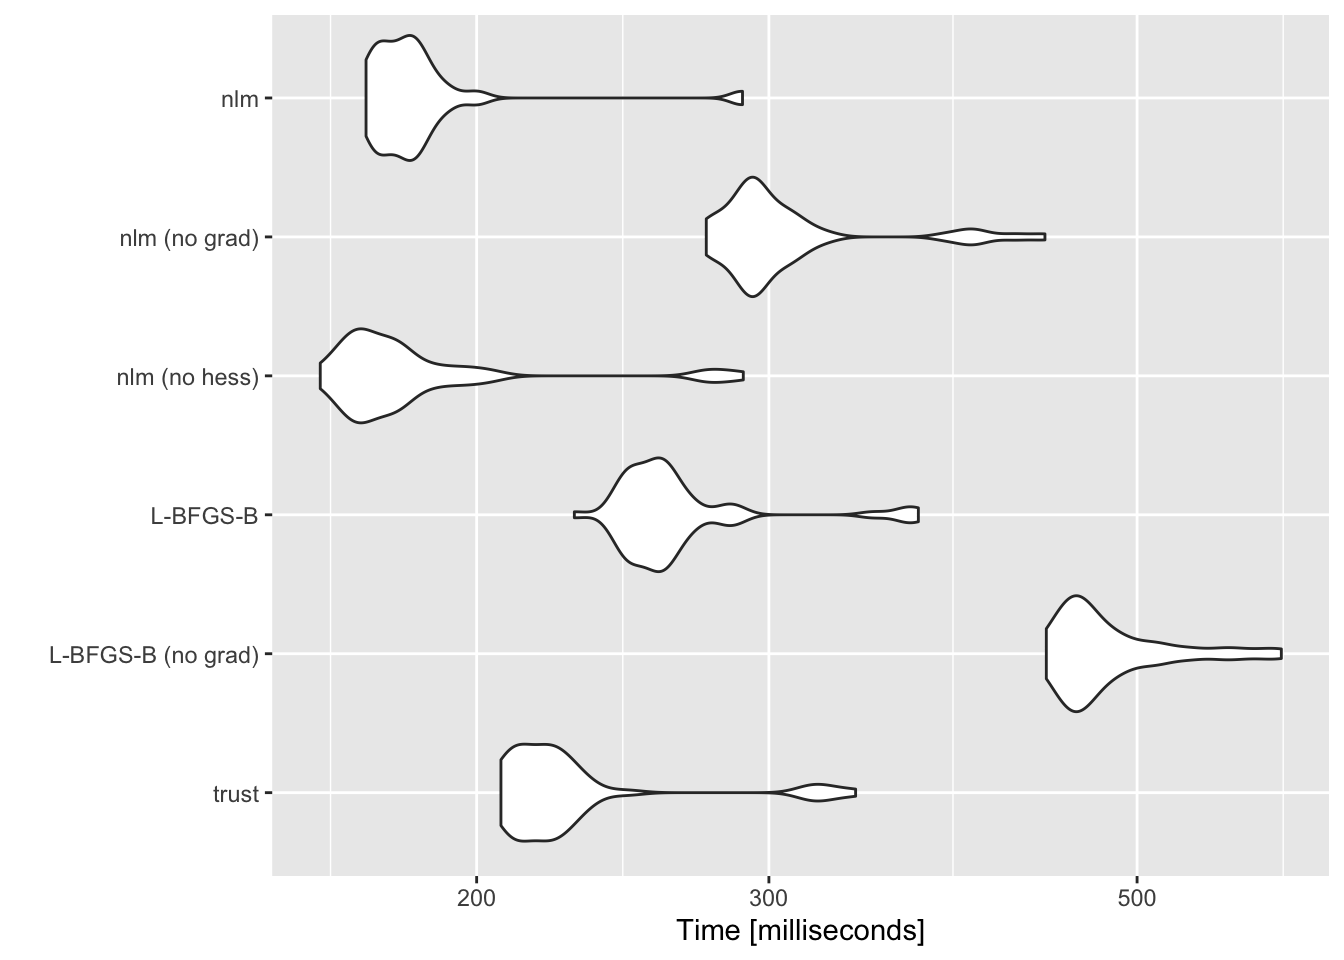
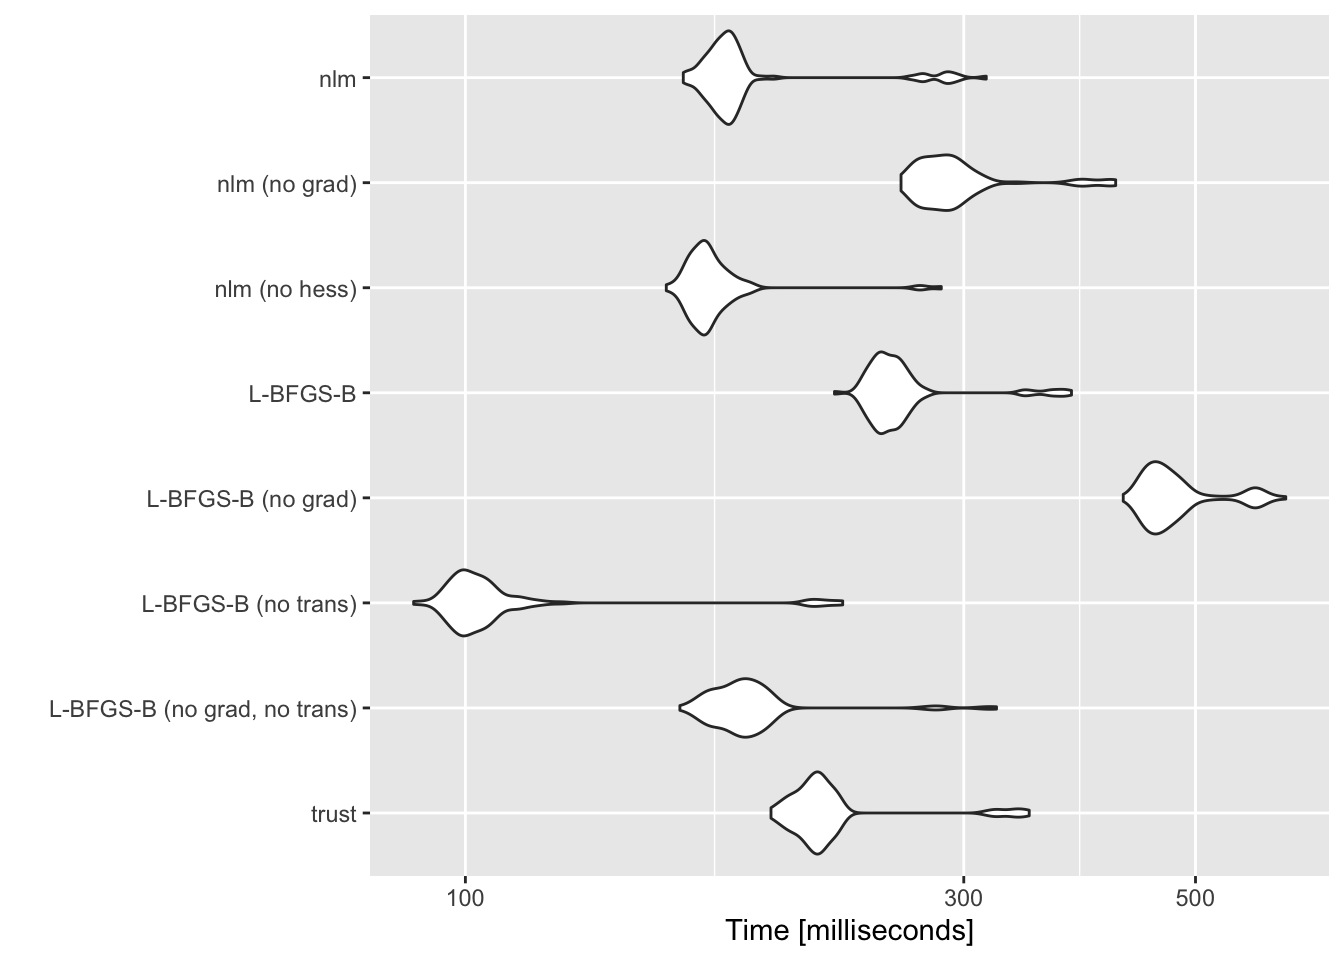
Build site.

diff --git a/docs/optmethods_pl3.html b/docs/optmethods_pl3.html
@@ -364,7 +364,7 @@ div.section {
 <div class="tab-content">
 <div id="summary" class="tab-pane fade in active">
 <p>
-<strong>Last updated:</strong> 2021-01-12
+<strong>Last updated:</strong> 2021-01-23
 </p>
 <p>
 <strong>Checks:</strong> <span class="glyphicon glyphicon-ok text-success" aria-hidden="true"></span> 6 <span class="glyphicon glyphicon-exclamation-sign text-danger" aria-hidden="true"></span> 0
@@ -443,10 +443,10 @@ This reproducible <a href="http://rmarkdown.rstudio.com">R Markdown</a> analysis
 <div class="panel panel-default">
 <div class="panel-heading">
 <p class="panel-title">
-<a data-toggle="collapse" data-parent="#workflowr-checks" href="#strongRepositoryversionstrongahrefhttpsgithubcomwillwerscheidebnmpapertree39fece5808142aebc190ee9b2a70da421600a7e9targetblank39fece5a"> <span class="glyphicon glyphicon-ok text-success" aria-hidden="true"></span> <strong>Repository version:</strong> <a href="https://github.com/willwerscheid/ebnm-paper/tree/39fece5808142aebc190ee9b2a70da421600a7e9" target="_blank">39fece5</a> </a>
+<a data-toggle="collapse" data-parent="#workflowr-checks" href="#strongRepositoryversionstrongahrefhttpsgithubcomwillwerscheidebnmpapertree34bfe3a18dcbd8f64a156587dbcd7676bc7529a6targetblank34bfe3aa"> <span class="glyphicon glyphicon-ok text-success" aria-hidden="true"></span> <strong>Repository version:</strong> <a href="https://github.com/willwerscheid/ebnm-paper/tree/34bfe3a18dcbd8f64a156587dbcd7676bc7529a6" target="_blank">34bfe3a</a> </a>
 </p>
 </div>
[2 lines of base64/hex data omitted]
 <div class="panel-body">
 <p>
 Great! You are using Git for version control. Tracking code development and connecting the code version to the results is critical for reproducibility. The version displayed above was the version of the Git repository at the time these results were generated. <br><br> Note that you need to be careful to ensure that all relevant files for the analysis have been committed to Git prior to generating the results (you can use <code>wflow_publish</code> or <code>wflow_git_commit</code>). workflowr only checks the R Markdown file, but you know if there are other scripts or data files that it depends on. Below is the status of the Git repository when the results were generated:
@@ -455,13 +455,14 @@ Great! You are using Git for version control. Tracking code development and conn
 Ignored files:
     Ignored:    .Rhistory
     Ignored:    .Rproj.user/
+    Ignored:    analysis/figure/
 
 Untracked files:
     Untracked:  sims.R
 
 Unstaged changes:
-    Modified:   analysis/_site.yml
-    Modified:   analysis/index.Rmd
+    Modified:   analysis/ebayesthresh.Rmd
+    Modified:   analysis/optmethods_pl.Rmd
 
 </code></pre>
 <p>
@@ -474,9 +475,52 @@ Note that any generated files, e.g. HTML, png, CSS, etc., are not included in t
 <hr>
 </div>
 <div id="versions" class="tab-pane fade">
+
 <p>
-There are no past versions. Publish this analysis with <code>wflow_publish()</code> to start tracking its development.
+These are the previous versions of the R Markdown and HTML files. If you’ve configured a remote Git repository (see <code>?wflow_git_remote</code>), click on the hyperlinks in the table below to view them.
 </p>
+<div class="table-responsive">
+<table class="table table-condensed table-hover">
+<thead>
+<tr>
+<th>
+File
+</th>
+<th>
+Version
+</th>
+<th>
+Author
+</th>
+<th>
+Date
+</th>
+<th>
+Message
+</th>
+</tr>
+</thead>
+<tbody>
+<tr>
+<td>
+html
+</td>
+<td>
+<a href="https://rawcdn.githack.com/willwerscheid/ebnm-paper/1f16a17ace3258221d346128f602b36e2e56a4be/docs/optmethods_pl3.html" target="_blank">1f16a17</a>
+</td>
+<td>
+Jason Willwerscheid
+</td>
+<td>
+2021-01-12
+</td>
+<td>
+Build site.
+</td>
+</tr>
+</tbody>
+</table>
+</div>
 <hr>
 </div>
 </div>
@@ -498,6 +542,10 @@ test_n &lt;- function(n, mb_times = 100L, seed = 666) {
   test_res &lt;- microbenchmark(
     tres &lt;- ebnm_point_laplace(x, s, optmethod = &quot;trust&quot;,
                                control = list(fterm = sqrt(.Machine$double.eps))),
+    ebnm_point_laplace(x, s, optmethod = &quot;notrans_nograd_lbfgsb&quot;,
+                       control = list(pgtol = sqrt(.Machine$double.eps))),
+    ures &lt;- ebnm_point_laplace(x, s, optmethod = &quot;notrans_lbfgsb&quot;,
+                       control = list(pgtol = sqrt(.Machine$double.eps))),
     ebnm_point_laplace(x, s, optmethod = &quot;nograd_lbfgsb&quot;,
                        control = list(pgtol = sqrt(.Machine$double.eps))),
     ores &lt;- ebnm_point_laplace(x, s, optmethod = &quot;lbfgsb&quot;,
@@ -511,11 +559,14 @@ test_n &lt;- function(n, mb_times = 100L, seed = 666) {
     times = mb_times
   )
 
-  levels(test_res$expr) &lt;- c(&quot;trust&quot;, &quot;L-BFGS-B (no grad)&quot;, &quot;L-BFGS-B&quot;, 
-                          &quot;nlm (no hess)&quot;, &quot;nlm (no grad)&quot;, &quot;nlm&quot;)
+  levels(test_res$expr) &lt;- c(&quot;trust&quot;, 
+                             &quot;L-BFGS-B (no grad, no trans)&quot;, &quot;L-BFGS-B (no trans)&quot;,
+                             &quot;L-BFGS-B (no grad)&quot;, &quot;L-BFGS-B&quot;,
+                             &quot;nlm (no hess)&quot;, &quot;nlm (no grad)&quot;, &quot;nlm&quot;)
   
-  llik_res &lt;- c(tres$log_likelihood, ores$log_likelihood, nres$log_likelihood)
-  names(llik_res) &lt;- c(&quot;trust&quot;, &quot;L-BFGS-B&quot;, &quot;nlm&quot;)
+  llik_res &lt;- c(nres$log_likelihood, ores$log_likelihood, 
+                ures$log_likelihood, tres$log_likelihood)
+  names(llik_res) &lt;- c(&quot;nlm&quot;, &quot;L-BFGS-B&quot;, &quot;L-BFGS-B (no trans)&quot;, &quot;trust&quot;)
   
   return(list(mb_res = test_res, llik_res = llik_res))
 }</code></pre>
@@ -524,36 +575,148 @@ test_n &lt;- function(n, mb_times = 100L, seed = 666) {
 <p>Difference from maximum log likelihood among all methods:</p>
 <pre class="r"><code>res1000 &lt;- test_n(1000)
 res1000$llik_res - max(res1000$llik_res)</code></pre>
-<pre><code>#&gt;         trust      L-BFGS-B           nlm 
-#&gt;  0.000000e+00 -4.020180e-04 -1.643033e-06</code></pre>
+<pre><code>#&gt;                 nlm            L-BFGS-B L-BFGS-B (no trans)               trust 
+#&gt;       -1.928498e-06       -4.020137e-04       -1.415112e-01        0.000000e+00</code></pre>
 <p>Timing results:</p>
 <pre class="r"><code>autoplot(res1000$mb_res)</code></pre>
 <pre><code>#&gt; Coordinate system already present. Adding new coordinate system, which will replace the existing one.</code></pre>
 <p><img src="figure/optmethods_pl3.Rmd/n1000t-1.png" width="672" style="display: block; margin: auto;" /></p>
+<p>
+<button type="button" class="btn btn-default btn-xs btn-workflowr btn-workflowr-fig" data-toggle="collapse" data-target="#fig-n1000t-1">
+Past versions of n1000t-1.png
+</button>
+</p>
+<div id="fig-n1000t-1" class="collapse">
+<div class="table-responsive">
+<table class="table table-condensed table-hover">
+<thead>
+<tr>
+<th>
+Version
+</th>
+<th>
+Author
+</th>
+<th>
+Date
+</th>
+</tr>
+</thead>
+<tbody>
+<tr>
+<td>
+<a href="https://github.com/willwerscheid/ebnm-paper/blob/1f16a17ace3258221d346128f602b36e2e56a4be/docs/figure/optmethods_pl3.Rmd/n1000t-1.png" target="_blank">1f16a17</a>
+</td>
+<td>
+Jason Willwerscheid
+</td>
+<td>
+2021-01-12
+</td>
+</tr>
+</tbody>
+</table>
+</div>
+</div>
 </div>
 <div id="n-10000" class="section level2">
 <h2>n = 10000</h2>
 <p>Difference from maximum log likelihood among all methods:</p>
-<pre class="r"><code>res10000 &lt;- test_n(10000, mb_times = 50L)
+<pre class="r"><code>res10000 &lt;- test_n(10000)
 res10000$llik_res - max(res10000$llik_res)</code></pre>
-<pre><code>#&gt;         trust      L-BFGS-B           nlm 
-#&gt;  0.000000e+00 -1.297601e-03 -1.647614e-05</code></pre>
+<pre><code>#&gt;                 nlm            L-BFGS-B L-BFGS-B (no trans)               trust 
+#&gt;       -0.0000193731       -0.0012976033       -0.1099026530        0.0000000000</code></pre>
 <p>Timing results:</p>
 <pre class="r"><code>autoplot(res10000$mb_res)</code></pre>
 <pre><code>#&gt; Coordinate system already present. Adding new coordinate system, which will replace the existing one.</code></pre>
 <p><img src="figure/optmethods_pl3.Rmd/n10000t-1.png" width="672" style="display: block; margin: auto;" /></p>
+<p>
+<button type="button" class="btn btn-default btn-xs btn-workflowr btn-workflowr-fig" data-toggle="collapse" data-target="#fig-n10000t-1">
+Past versions of n10000t-1.png
+</button>
+</p>
+<div id="fig-n10000t-1" class="collapse">
+<div class="table-responsive">
+<table class="table table-condensed table-hover">
+<thead>
+<tr>
+<th>
+Version
+</th>
+<th>
+Author
+</th>
+<th>
+Date
+</th>
+</tr>
+</thead>
+<tbody>
+<tr>
+<td>
+<a href="https://github.com/willwerscheid/ebnm-paper/blob/1f16a17ace3258221d346128f602b36e2e56a4be/docs/figure/optmethods_pl3.Rmd/n10000t-1.png" target="_blank">1f16a17</a>
+</td>
+<td>
+Jason Willwerscheid
+</td>
+<td>
+2021-01-12
+</td>
+</tr>
+</tbody>
+</table>
+</div>
+</div>
 </div>
 <div id="n-100000" class="section level2">
 <h2>n = 100000</h2>
 <p>Difference from maximum log likelihood among all methods:</p>
-<pre class="r"><code>res100000 &lt;- test_n(100000, mb_times = 20L)
+<pre class="r"><code>res100000 &lt;- test_n(100000, mb_times = 50L)
 res100000$llik_res - max(res100000$llik_res)</code></pre>
-<pre><code>#&gt;         trust      L-BFGS-B           nlm 
-#&gt;  0.0000000000 -0.1192067698 -0.0001639297</code></pre>
+<pre><code>#&gt;                 nlm            L-BFGS-B L-BFGS-B (no trans)               trust 
+#&gt;       -0.0001926876       -0.1192067729       -0.0916290656        0.0000000000</code></pre>
 <p>Timing results:</p>
 <pre class="r"><code>autoplot(res100000$mb_res)</code></pre>
 <pre><code>#&gt; Coordinate system already present. Adding new coordinate system, which will replace the existing one.</code></pre>
-<img src="figure/optmethods_pl3.Rmd/n100000t-1.png" width="672" style="display: block; margin: auto;" /> <br> <br>
+<p><img src="figure/optmethods_pl3.Rmd/n100000t-1.png" width="672" style="display: block; margin: auto;" /></p>
+<p>
+<button type="button" class="btn btn-default btn-xs btn-workflowr btn-workflowr-fig" data-toggle="collapse" data-target="#fig-n100000t-1">
+Past versions of n100000t-1.png
+</button>
+</p>
+<div id="fig-n100000t-1" class="collapse">
+<div class="table-responsive">
+<table class="table table-condensed table-hover">
+<thead>
+<tr>
+<th>
+Version
+</th>
+<th>
+Author
+</th>
+<th>
+Date
+</th>
+</tr>
+</thead>
+<tbody>
+<tr>
+<td>
+<a href="https://github.com/willwerscheid/ebnm-paper/blob/1f16a17ace3258221d346128f602b36e2e56a4be/docs/figure/optmethods_pl3.Rmd/n100000t-1.png" target="_blank">1f16a17</a>
+</td>
+<td>
+Jason Willwerscheid
+</td>
+<td>
+2021-01-12
+</td>
+</tr>
+</tbody>
+</table>
+</div>
+</div>
+<br> <br>
 <p>
 <button type="button" class="btn btn-default btn-workflowr btn-workflowr-sessioninfo" data-toggle="collapse" data-target="#workflowr-sessioninfo" style="display: block;">
 <span class="glyphicon glyphicon-wrench" aria-hidden="true"></span> Session information
@@ -576,17 +739,17 @@ res100000$llik_res - max(res100000$llik_res)</code></pre>
 #&gt; [1] stats     graphics  grDevices utils     datasets  methods   base     
 #&gt; 
 #&gt; other attached packages:
-#&gt; [1] ggplot2_3.3.3        ebnm_0.1-29          microbenchmark_1.4-7
+#&gt; [1] ggplot2_3.3.3        ebnm_0.1-33          microbenchmark_1.4-7 workflowr_1.2.0     
 #&gt; 
 #&gt; loaded via a namespace (and not attached):
-#&gt;  [1] Rcpp_1.0.4.6      compiler_3.5.3    pillar_1.4.7      git2r_0.25.2      workflowr_1.2.0  
-#&gt;  [6] tools_3.5.3       digest_0.6.18     evaluate_0.13     tibble_3.0.4      lifecycle_0.2.0  
-#&gt; [11] gtable_0.3.0      lattice_0.20-38   pkgconfig_2.0.2   rlang_0.4.10      Matrix_1.2-15    
-#&gt; [16] yaml_2.2.0        xfun_0.6          invgamma_1.1      withr_2.1.2       dplyr_1.0.2      
-#&gt; [21] stringr_1.4.0     knitr_1.22        generics_0.0.2    vctrs_0.3.6       fs_1.2.7         
-#&gt; [26] tidyselect_1.1.0  trust_0.1-8       rprojroot_1.3-2   grid_3.5.3        glue_1.4.2       
-#&gt; [31] R6_2.4.0          rmarkdown_1.12    mixsqp_0.3-40     irlba_2.3.3       purrr_0.3.4      
-#&gt; [36] ashr_2.2-51       magrittr_1.5      backports_1.1.3   scales_1.0.0      htmltools_0.3.6  
+#&gt;  [1] Rcpp_1.0.4.6      compiler_3.5.3    pillar_1.4.7      git2r_0.25.2      tools_3.5.3      
+#&gt;  [6] digest_0.6.18     evaluate_0.13     tibble_3.0.4      lifecycle_0.2.0   gtable_0.3.0     
+#&gt; [11] lattice_0.20-38   pkgconfig_2.0.2   rlang_0.4.10      Matrix_1.2-15     yaml_2.2.0       
+#&gt; [16] xfun_0.6          invgamma_1.1      withr_2.4.0       dplyr_1.0.2       stringr_1.4.0    
+#&gt; [21] knitr_1.22        generics_0.0.2    vctrs_0.3.6       fs_1.2.7          tidyselect_1.1.0 
+#&gt; [26] trust_0.1-8       rprojroot_1.3-2   grid_3.5.3        glue_1.4.2        R6_2.4.0         
+#&gt; [31] rmarkdown_1.12    mixsqp_0.3-40     irlba_2.3.3       purrr_0.3.4       ashr_2.2-51      
+#&gt; [36] magrittr_1.5      whisker_0.3-2     backports_1.1.3   scales_1.0.0      htmltools_0.3.6  
 #&gt; [41] ellipsis_0.3.0    colorspace_1.4-1  stringi_1.4.3     munsell_0.5.0     truncnorm_1.0-8  
 #&gt; [46] SQUAREM_2017.10-1 crayon_1.3.4</code></pre>
 </div>
